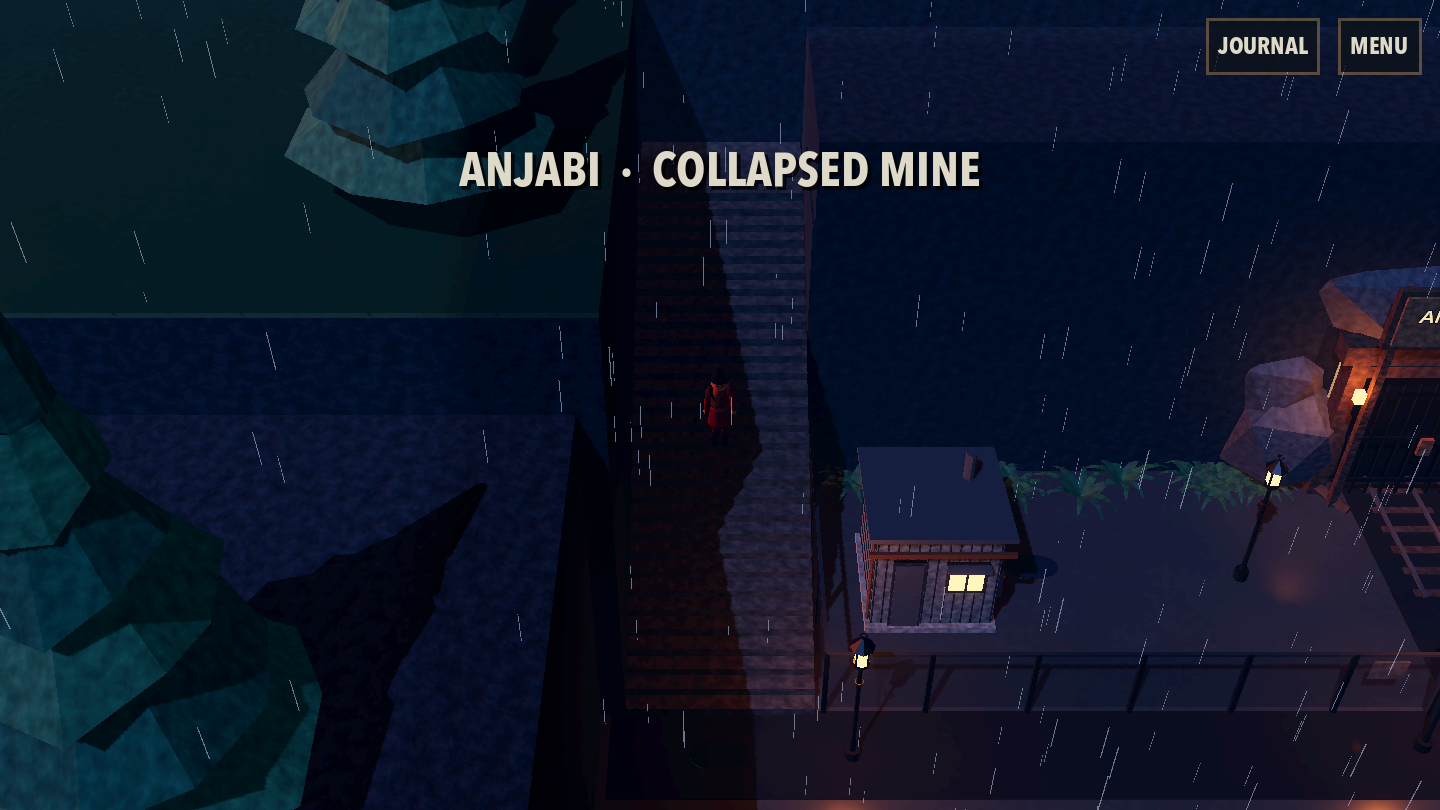
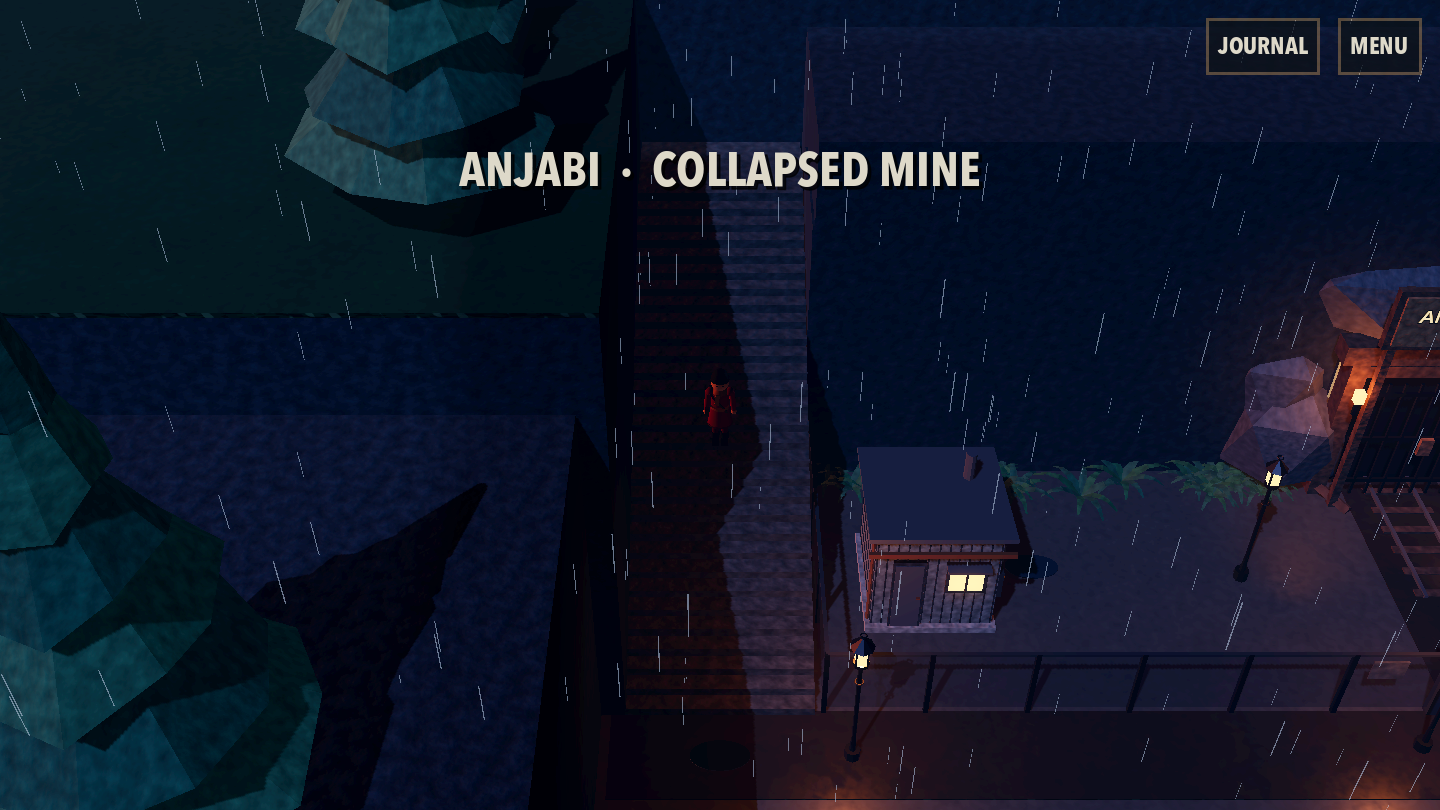
Aesthetic pass 4: layout check vs concept map, sloped shorelines, denser forest, boulders, noise remap fix

Changed region(s): [[0.0, 0.3704, 0.3125, 0.4012], [0.9062, 0.9259, 1.0, 1.0], [0.5312, 0.9568, 0.625, 1.0]]

diff --git a/PROJECT_LOG.md b/PROJECT_LOG.md
@@ -423,3 +423,19 @@ rails), `gondola` (tram cabin), `pine`, `fern`.
 - Tram pylons rebuilt as slender four-leg lattice towers.
 - Tests 96/96.
 
+### Pass 4 — layout against the concept map
+- `tests/overview.tscn`: renders a top-down orthographic overview of the whole town
+  (`docs/screens/overview_town.png`) to compare with `docs/reference/anjabi_concept_map.png`.
+  Landmark placement matches the map (estate W, Tion Tower centre-left, tavern above the
+  Steps, pods N, Guard Tower NE, tram station and boardwalk E, beach S, airpad SW,
+  Imperial Tower on the water SE).
+- Shorelines: water cells are now a sloping seabed (no vertical skirts), so the sea
+  surface traces a smooth coast instead of 1 m stair steps.
+- Forest: pine density raised in the forest/estate belt (west) and along the north edge,
+  and trees jittered off the cell grid, matching the map's dense woods.
+- Lone water cells on the beach and shore become boulders (the map's rocks).
+- Fixed a shading bug present since pass 1: the shared noise texture is ramped to
+  0.6–1.05, so puddles covered almost everything and the sea was all foam; both shaders
+  now remap it (`nz()`). Wet sheen raised, puddles patchy, fewer on sand and grass.
+- Tests 96/96.
+
